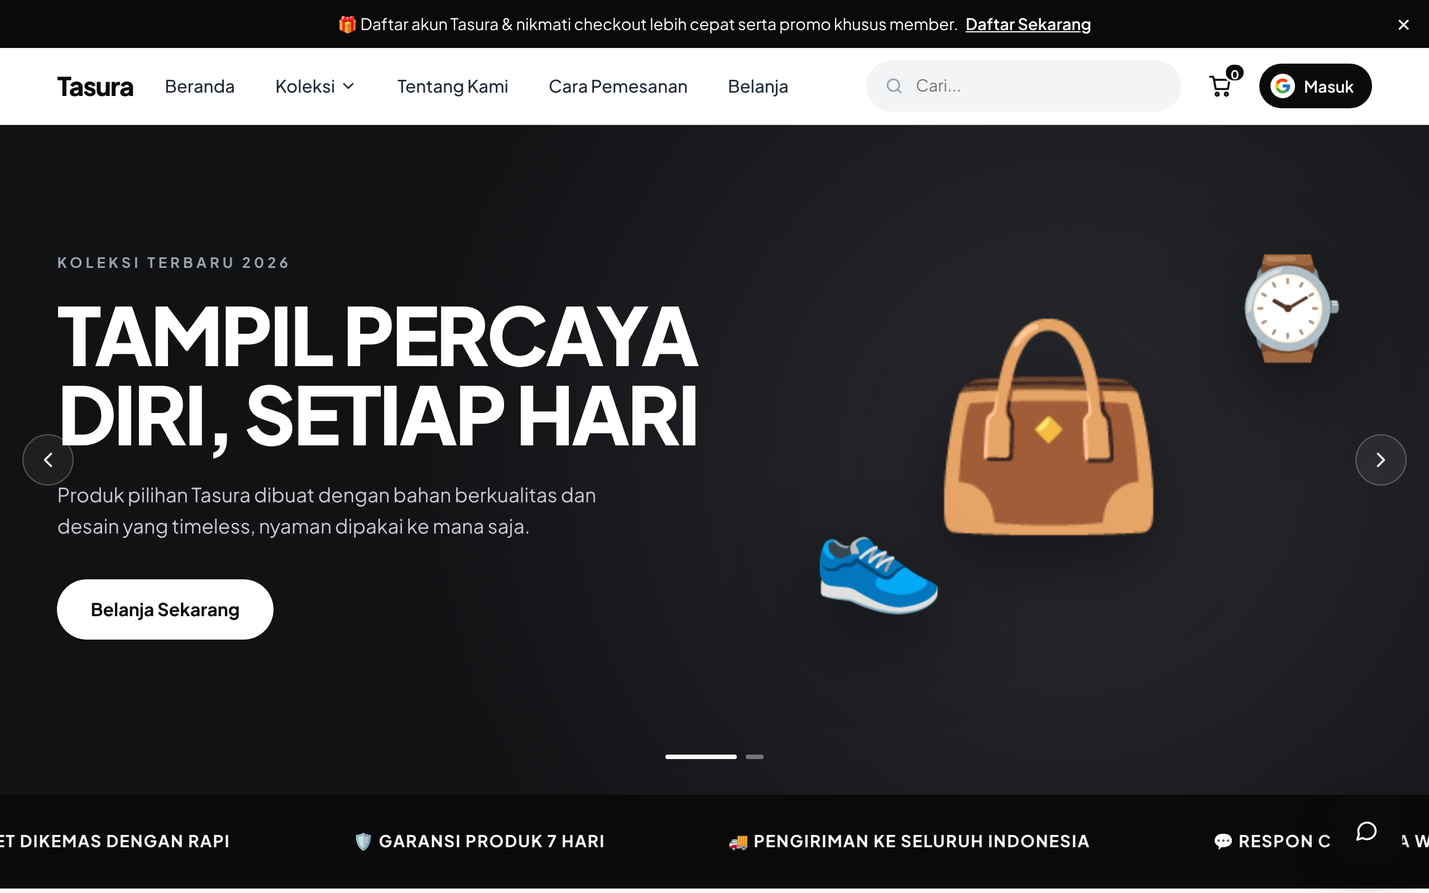
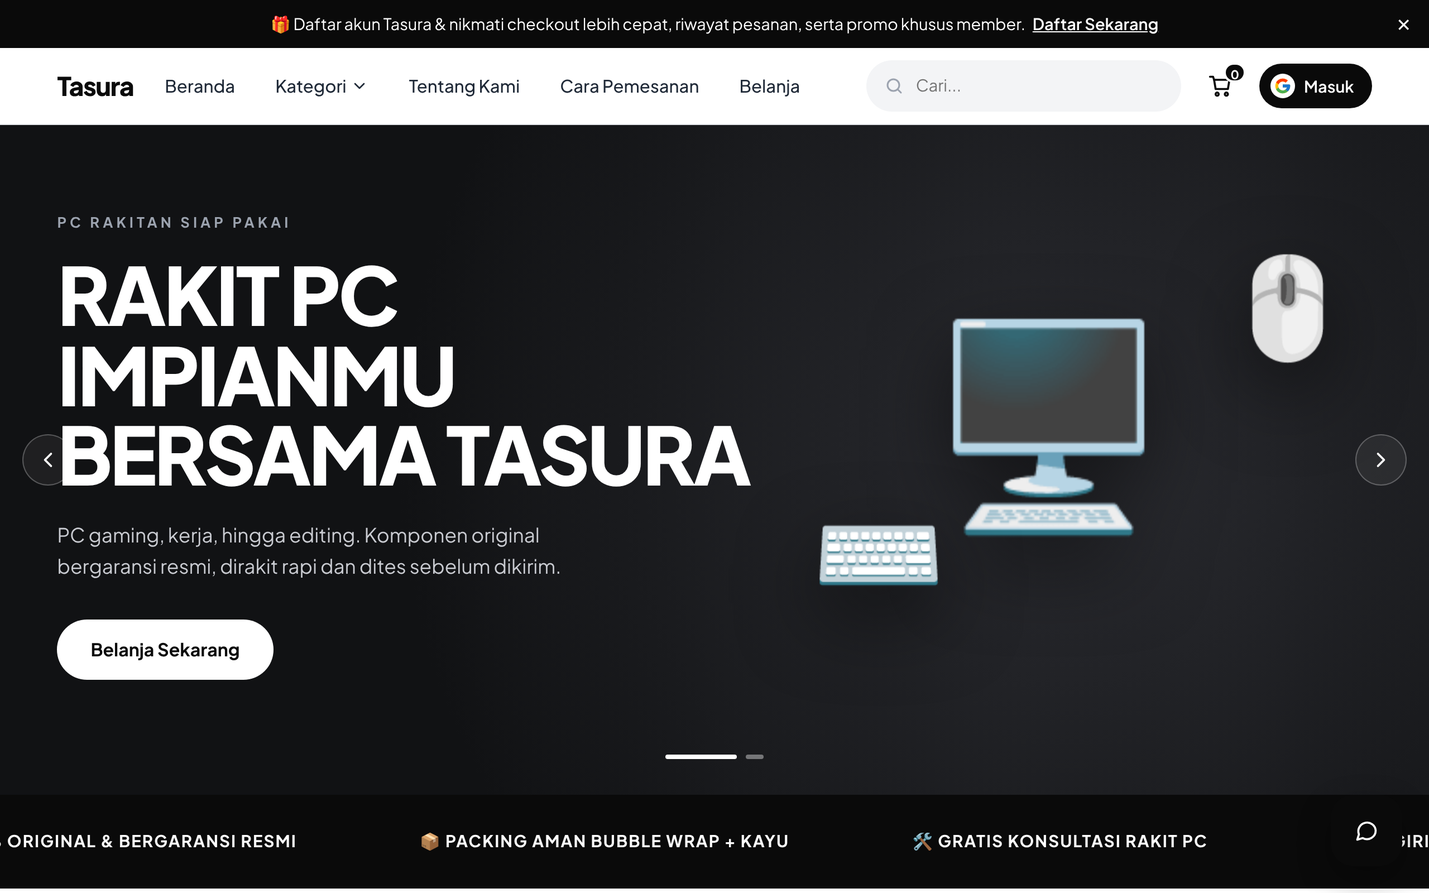
Turn store into PC and computer parts shop
Sample PC builds, monitors and components with spec lists in the
product detail, spec-aware search, and landing page copy for a PC store
(warranty, PC building consultation, testing and safe packing).

Claude-Session: https://claude.ai/code/session_01CW8Mdw83pMtiM6Mhh3g5pX

diff --git a/index.html b/index.html
@@ -3,8 +3,8 @@
 <head>
   <meta charset="UTF-8" />
   <meta name="viewport" content="width=device-width, initial-scale=1.0" />
-  <title>Tasura — Belanja Mudah, Kualitas Terbaik</title>
-  <meta name="description" content="Tasura - toko online terpercaya. Produk berkualitas, harga bersahabat, pesan langsung via WhatsApp." />
+  <title>Tasura — Toko PC, Monitor &amp; Komponen Komputer</title>
+  <meta name="description" content="Tasura - toko PC rakitan, monitor, dan komponen komputer original bergaransi resmi. Konsultasi rakit PC gratis, pesan via WhatsApp." />
   <link rel="preconnect" href="https://fonts.googleapis.com" />
   <link href="https://fonts.googleapis.com/css2?family=Plus+Jakarta+Sans:wght@400;500;600;700;800&display=swap" rel="stylesheet" />
   <meta name="theme-color" content="#0a0a0a" />
@@ -13,7 +13,7 @@
 <body>
   <!-- Announcement bar -->
   <div class="announce" id="announce">
-    <p>🎁 Daftar akun Tasura &amp; nikmati checkout lebih cepat serta promo khusus member. <a href="#" id="announceCta">Daftar Sekarang</a></p>
+    <p>🎁 Daftar akun Tasura &amp; nikmati checkout lebih cepat, riwayat pesanan, serta promo khusus member. <a href="#" id="announceCta">Daftar Sekarang</a></p>
     <button class="announce-close" id="announceClose" aria-label="Tutup">✕</button>
   </div>
 
@@ -24,7 +24,7 @@
       <nav class="nav" id="nav">
         <a href="#beranda">Beranda</a>
         <div class="dropdown">
-          <button type="button" class="dropdown-toggle">Koleksi <svg viewBox="0 0 24 24"><path d="m6 9 6 6 6-6"/></svg></button>
+          <button type="button" class="dropdown-toggle">Kategori <svg viewBox="0 0 24 24"><path d="m6 9 6 6 6-6"/></svg></button>
           <div class="dropdown-menu" id="navCategories"></div>
         </div>
         <a href="#tentang">Tentang Kami</a>
@@ -54,23 +54,23 @@
       <div class="slide active">
         <div class="container slide-inner">
           <div class="slide-text">
-            <span class="eyebrow">Koleksi Terbaru 2026</span>
-            <h1>Tampil Percaya Diri, Setiap Hari</h1>
-            <p>Produk pilihan Tasura dibuat dengan bahan berkualitas dan desain yang timeless, nyaman dipakai ke mana saja.</p>
+            <span class="eyebrow">PC Rakitan Siap Pakai</span>
+            <h1>Rakit PC Impianmu Bersama Tasura</h1>
+            <p>PC gaming, kerja, hingga editing. Komponen original bergaransi resmi, dirakit rapi dan dites sebelum dikirim.</p>
             <a href="#produk" class="btn btn-light">Belanja Sekarang</a>
           </div>
-          <div class="slide-visual"><span>👜</span><span>👟</span><span>⌚</span></div>
+          <div class="slide-visual"><span>🖥</span><span>⌨</span><span>🖱</span></div>
         </div>
       </div>
       <div class="slide">
         <div class="container slide-inner">
           <div class="slide-text">
             <span class="eyebrow">Promo Member Baru</span>
-            <h1>Hemat 10% di Pesanan Pertamamu</h1>
-            <p>Gunakan kode <b>TASURA10</b> saat checkout. Berlaku untuk semua produk, tanpa minimum belanja.</p>
+            <h1>Upgrade Setup, Hemat 10%</h1>
+            <p>Gunakan kode <b>TASURA10</b> saat checkout untuk monitor, VGA, dan semua komponen PC.</p>
             <a href="#produk" class="btn btn-light">Ambil Promo</a>
           </div>
-          <div class="slide-visual"><span>🧥</span><span>🎒</span><span>🕶</span></div>
+          <div class="slide-visual"><span>🎮</span><span>🎧</span><span>💽</span></div>
         </div>
       </div>
     </div>
@@ -82,10 +82,10 @@
   <!-- Marquee -->
   <div class="marquee">
     <div class="marquee-track" id="marquee">
-      <span>📦 Paket dikemas dengan rapi</span>
-      <span>🛡 Garansi produk 7 hari</span>
+      <span>✅ 100% original &amp; bergaransi resmi</span>
+      <span>📦 Packing aman bubble wrap + kayu</span>
+      <span>🛠 Gratis konsultasi rakit PC</span>
       <span>🚚 Pengiriman ke seluruh Indonesia</span>
-      <span>💬 Respon cepat via WhatsApp</span>
     </div>
   </div>
 
@@ -93,23 +93,23 @@
   <section class="section container" id="populer">
     <h2 class="big-title center">Paling Populer</h2>
     <div class="popular-grid" id="popularGrid"></div>
-    <div class="center"><a href="#produk" class="btn btn-outline-lg">Lihat Semua Koleksi</a></div>
+    <div class="center"><a href="#produk" class="btn btn-outline-lg">Lihat Semua Produk</a></div>
   </section>
 
   <!-- Quality / About -->
   <section class="section container quality" id="tentang">
     <div class="quality-text">
-      <h2 class="big-title">Kualitas di Atas Segalanya</h2>
-      <p>Di Tasura, setiap produk kami pilih dan cek satu per satu, mulai dari bahan, jahitan, sampai finishing. Kami ingin kamu mendapatkan barang yang awet, nyaman, dan tetap terlihat stylish.</p>
+      <h2 class="big-title">Original &amp; Bergaransi Resmi</h2>
+      <p>Semua produk Tasura berasal dari distributor resmi Indonesia. Setiap PC rakitan dites stress test dan benchmark sebelum dikirim, jadi kamu tinggal colok dan langsung pakai.</p>
       <div class="stats">
         <div><b>100%</b><span>Produk Original</span></div>
-        <div><b>5rb+</b><span>Pelanggan Bahagia</span></div>
+        <div><b>1rb+</b><span>PC Terakit</span></div>
         <div><b>4.9/5</b><span>Rating Pelanggan</span></div>
       </div>
     </div>
     <div class="quality-visual">
-      <span class="quality-emoji">🛍</span>
-      <div class="quality-badge"><b>Kualitas Premium</b><span>Terjamin</span></div>
+      <span class="quality-emoji">🛠</span>
+      <div class="quality-badge"><b>Garansi Resmi</b><span>Distributor Indonesia</span></div>
     </div>
   </section>
 
@@ -121,8 +121,8 @@
       <div class="steps">
         <div class="step">
           <div class="step-icon"><svg viewBox="0 0 24 24"><rect x="3" y="3" width="7" height="7" rx="1.5"/><rect x="14" y="3" width="7" height="7" rx="1.5"/><rect x="3" y="14" width="7" height="7" rx="1.5"/><rect x="14" y="14" width="7" height="7" rx="1.5"/></svg></div>
-          <h3>Pilih Produk Favoritmu</h3>
-          <p>Jelajahi koleksi Tasura dan temukan produk yang paling cocok dengan gayamu.</p>
+          <h3>Pilih PC atau Komponen</h3>
+          <p>Pilih PC rakitan siap pakai, atau komponen satuan untuk upgrade. Bingung? Konsultasi gratis via WhatsApp.</p>
         </div>
         <div class="step">
           <div class="step-icon"><svg viewBox="0 0 24 24"><rect x="3" y="3" width="18" height="18" rx="3"/><path d="M12 8v8M8 12h8"/></svg></div>
@@ -131,8 +131,8 @@
         </div>
         <div class="step">
           <div class="step-icon"><svg viewBox="0 0 24 24"><path d="M6 3h12v18l-6-4-6 4z"/></svg></div>
-          <h3>Konfirmasi &amp; Terima Paket</h3>
-          <p>Pesanan dikonfirmasi via WhatsApp dan dikirim cepat dengan packing aman.</p>
+          <h3>Dirakit, Dites &amp; Dikirim</h3>
+          <p>PC dirakit dan dites dulu, lalu dikirim dengan packing kayu supaya sampai dalam kondisi sempurna.</p>
         </div>
       </div>
     </div>
@@ -142,8 +142,8 @@
   <section class="section container" id="produk">
     <div class="section-head">
       <div>
-        <h2 class="big-title">Semua Koleksi</h2>
-        <p class="section-sub">Pilihan terbaik untuk kebutuhanmu</p>
+        <h2 class="big-title">Semua Produk</h2>
+        <p class="section-sub">PC rakitan, monitor, komponen, dan aksesoris gaming</p>
       </div>
       <select id="sortSelect" class="sort">
         <option value="default">Urutkan: Rekomendasi</option>
@@ -160,25 +160,25 @@
   <!-- Testimonials -->
   <section class="section container">
     <h2 class="big-title center">Pelanggan Kami yang Bahagia</h2>
-    <p class="section-sub center">Cerita dari mereka yang sudah merasakan kualitas produk Tasura.</p>
+    <p class="section-sub center">Cerita dari mereka yang sudah merakit dan upgrade PC di Tasura.</p>
     <div class="testis">
-      <div class="testi"><div class="testi-head"><span class="avatar">R</span><div><b>Rina</b><small>Jakarta</small></div></div><div class="stars">⭐⭐⭐⭐⭐</div><p>"Barangnya bagus banget, sesuai foto. Pengiriman juga cepat!"</p></div>
-      <div class="testi"><div class="testi-head"><span class="avatar">D</span><div><b>Dimas</b><small>Bandung</small></div></div><div class="stars">⭐⭐⭐⭐⭐</div><p>"Admin ramah dan fast respon. Pasti order lagi di Tasura."</p></div>
-      <div class="testi"><div class="testi-head"><span class="avatar">S</span><div><b>Sari</b><small>Surabaya</small></div></div><div class="stars">⭐⭐⭐⭐⭐</div><p>"Harga terjangkau, kualitas premium. Recommended!"</p></div>
+      <div class="testi"><div class="testi-head"><span class="avatar">R</span><div><b>Rina</b><small>Jakarta</small></div></div><div class="stars">⭐⭐⭐⭐⭐</div><p>"Beli PC rakitan buat editing, sampai rumah langsung nyala. Kabelnya rapi banget!"</p></div>
+      <div class="testi"><div class="testi-head"><span class="avatar">D</span><div><b>Dimas</b><small>Bandung</small></div></div><div class="stars">⭐⭐⭐⭐⭐</div><p>"Dibantu pilih VGA yang cocok sama PSU-ku. Admin paham banget soal komponen."</p></div>
+      <div class="testi"><div class="testi-head"><span class="avatar">S</span><div><b>Sari</b><small>Surabaya</small></div></div><div class="stars">⭐⭐⭐⭐⭐</div><p>"Monitor 165Hz-nya mulus, packing kayu aman. Harga juga bersaing!"</p></div>
     </div>
   </section>
 
   <!-- FAQ -->
   <section class="section container faq-wrap" id="faq">
     <h2 class="big-title center">Tanya Jawab</h2>
-    <p class="section-sub center">Jawaban seputar produk, pembayaran, dan pengiriman agar kamu makin yakin belanja.</p>
+    <p class="section-sub center">Jawaban seputar garansi, rakit PC, pembayaran, dan pengiriman agar kamu makin yakin belanja.</p>
     <div class="faq" id="faqList">
-      <details open><summary>Apakah bisa tukar atau retur barang?</summary><p>Bisa. Kami menerima retur maksimal 7 hari setelah barang diterima, selama produk belum dipakai, label masih terpasang, dan disertai video unboxing.</p></details>
-      <details><summary>Bagaimana cara memesan di Tasura?</summary><p>Pilih produk, masukkan ke keranjang, lalu klik Checkout dan isi data pengiriman. Pesananmu akan otomatis terkirim ke WhatsApp admin untuk dikonfirmasi.</p></details>
+      <details open><summary>Apakah semua produk original dan bergaransi?</summary><p>Ya. Semua produk 100% original dari distributor resmi Indonesia dan bergaransi resmi sesuai ketentuan masing-masing merek (umumnya 1–3 tahun untuk komponen, dan hingga 5 tahun untuk beberapa SSD/PSU).</p></details>
+      <details><summary>Bisa minta dirakitkan PC sesuai budget?</summary><p>Bisa banget. Chat kami via WhatsApp, sebutkan budget dan kebutuhanmu (gaming, editing, kantor). Kami bantu susun spesifikasi yang paling pas, gratis.</p></details>
+      <details><summary>Bagaimana saya tahu komponen yang saya pilih kompatibel?</summary><p>Cek bagian Spesifikasi di setiap produk (socket, tipe RAM, daya). Kalau ragu, kirim daftar komponenmu ke WhatsApp dan kami cek kompatibilitasnya sebelum kamu checkout.</p></details>
+      <details><summary>Apakah PC rakitan dites sebelum dikirim?</summary><p>Ya. Setiap PC rakitan diinstal driver, dites stress test dan benchmark, lalu dikirim dengan packing kayu agar aman selama perjalanan.</p></details>
       <details><summary>Metode pembayaran apa saja yang tersedia?</summary><p>Transfer bank, e-wallet (OVO, DANA, GoPay), dan COD (bayar di tempat) untuk area tertentu.</p></details>
-      <details><summary>Berapa lama waktu pengiriman?</summary><p>Pesanan diproses 1x24 jam di hari kerja. Estimasi sampai 1–3 hari untuk Pulau Jawa dan 3–7 hari untuk luar Jawa.</p></details>
-      <details><summary>Apakah produk Tasura original?</summary><p>Ya, semua produk yang kami jual 100% original dan sudah melalui pengecekan kualitas sebelum dikirim.</p></details>
-      <details><summary>Bagaimana jika pesanan saya bermasalah?</summary><p>Hubungi kami lewat WhatsApp dengan menyertakan nomor pesanan dan foto/video kendala. Tim kami akan membantu secepatnya.</p></details>
+      <details><summary>Bagaimana jika barang rusak atau tidak berfungsi saat diterima?</summary><p>Rekam video unboxing, lalu hubungi kami via WhatsApp maksimal 2×24 jam setelah barang diterima. Kami bantu tukar barang atau proses klaim garansinya.</p></details>
     </div>
   </section>
 
@@ -187,15 +187,15 @@
     <div class="container">
       <div class="cta">
         <div>
-          <h2>Siap Upgrade Gayamu?</h2>
-          <p>Dapatkan promo eksklusif dan update koleksi terbaru dari Tasura.</p>
+          <h2>Siap Upgrade Setup-mu?</h2>
+          <p>Konsultasi rakit PC gratis dan dapatkan promo eksklusif dari Tasura.</p>
         </div>
         <a href="#produk" class="btn btn-light">Belanja Sekarang</a>
       </div>
       <div class="footer-inner">
         <div>
           <a href="#beranda" class="logo">Tasura</a>
-          <p class="footer-desc">Toko online pilihan dengan produk berkualitas dan harga bersahabat. Belanja mudah, aman, dan cepat.</p>
+          <p class="footer-desc">Toko PC rakitan, monitor, dan komponen komputer original bergaransi resmi. Rakit, upgrade, dan belanja dengan tenang.</p>
           <div class="socials">
             <a href="#" aria-label="Instagram"><svg viewBox="0 0 24 24"><rect x="3" y="3" width="18" height="18" rx="5"/><circle cx="12" cy="12" r="4"/><circle cx="17.5" cy="6.5" r=".6"/></svg></a>
             <a href="#" aria-label="TikTok"><svg viewBox="0 0 24 24"><path d="M14 3v11.5a3.5 3.5 0 1 1-3.5-3.5"/><path d="M14 3c.5 2.5 2.5 4.5 5 5"/></svg></a>
@@ -204,7 +204,7 @@
         </div>
         <div>
           <h4>Belanja</h4>
-          <a href="#produk">Semua Koleksi</a>
+          <a href="#produk">Semua Produk</a>
           <a href="#populer">Paling Populer</a>
           <a href="#cara-pesan">Cara Pemesanan</a>
         </div>
@@ -212,7 +212,7 @@
           <h4>Bantuan</h4>
           <a href="#faq">FAQ</a>
           <a href="#faq">Info Pengiriman</a>
-          <a href="#faq">Kebijakan Retur</a>
+          <a href="#faq">Klaim Garansi</a>
         </div>
         <div>
           <h4>Kontak</h4>

diff --git a/products.js b/products.js
@@ -6,18 +6,52 @@ const STORE = {
 };
 
 // ====== DAFTAR PRODUK ======
-// gambar: isi dengan path foto (mis. "img/tas1.jpg"). Jika kosong, emoji yang ditampilkan.
+// gambar: isi dengan path foto (mis. "img/rtx4060.jpg"). Jika kosong, emoji yang ditampilkan.
+// spek: daftar spesifikasi singkat yang tampil di halaman detail produk.
 const PRODUCTS = [
-  { id: 1, nama: "Tote Bag Kanvas Premium", kategori: "Tas", harga: 129000, hargaCoret: 179000, rating: 4.9, terjual: 320, emoji: "👜", gambar: "", deskripsi: "Tote bag berbahan kanvas tebal, muat laptop 14 inci, cocok untuk kuliah & kerja." },
-  { id: 2, nama: "Sling Bag Kulit Sintetis", kategori: "Tas", harga: 159000, hargaCoret: 0, rating: 4.8, terjual: 210, emoji: "👝", gambar: "", deskripsi: "Sling bag elegan dengan tali adjustable dan banyak kompartemen." },
-  { id: 3, nama: "Kemeja Linen Oversize", kategori: "Pakaian", harga: 149000, hargaCoret: 199000, rating: 4.7, terjual: 540, emoji: "👕", gambar: "", deskripsi: "Kemeja linen adem, potongan oversize kekinian. Tersedia ukuran S–XL." },
-  { id: 4, nama: "Dress Midi Floral", kategori: "Pakaian", harga: 189000, hargaCoret: 0, rating: 4.9, terjual: 150, emoji: "👗", gambar: "", deskripsi: "Dress midi motif floral dengan bahan rayon lembut dan jatuh." },
-  { id: 5, nama: "Sneakers Casual Putih", kategori: "Sepatu", harga: 249000, hargaCoret: 329000, rating: 4.8, terjual: 410, emoji: "👟", gambar: "", deskripsi: "Sneakers putih serbaguna, sol empuk dan anti slip." },
-  { id: 6, nama: "Sandal Slide Comfort", kategori: "Sepatu", harga: 79000, hargaCoret: 0, rating: 4.6, terjual: 760, emoji: "🩴", gambar: "", deskripsi: "Sandal slide ringan dan nyaman dipakai seharian." },
-  { id: 7, nama: "Jam Tangan Minimalis", kategori: "Aksesoris", harga: 199000, hargaCoret: 259000, rating: 4.8, terjual: 190, emoji: "⌚", gambar: "", deskripsi: "Jam tangan desain minimalis, tali kulit, tahan percikan air." },
-  { id: 8, nama: "Kacamata Hitam UV400", kategori: "Aksesoris", harga: 99000, hargaCoret: 0, rating: 4.7, terjual: 280, emoji: "🕶", gambar: "", deskripsi: "Kacamata dengan perlindungan UV400, frame ringan dan kuat." },
-  { id: 9, nama: "Topi Baseball Basic", kategori: "Aksesoris", harga: 59000, hargaCoret: 75000, rating: 4.6, terjual: 630, emoji: "🧢", gambar: "", deskripsi: "Topi baseball bahan katun, strap belakang bisa diatur." },
-  { id: 10, nama: "Ransel Laptop Waterproof", kategori: "Tas", harga: 279000, hargaCoret: 349000, rating: 4.9, terjual: 260, emoji: "🎒", gambar: "", deskripsi: "Ransel waterproof dengan slot laptop 15.6 inci dan port USB." },
-  { id: 11, nama: "Hoodie Fleece Unisex", kategori: "Pakaian", harga: 219000, hargaCoret: 0, rating: 4.8, terjual: 380, emoji: "🧥", gambar: "", deskripsi: "Hoodie fleece tebal dan hangat, unisex, ukuran M–XXL." },
-  { id: 12, nama: "Dompet Kartu Slim", kategori: "Aksesoris", harga: 69000, hargaCoret: 89000, rating: 4.7, terjual: 450, emoji: "💳", gambar: "", deskripsi: "Dompet kartu tipis, muat 8 kartu + uang lipat." },
+  { id: 1, nama: "PC Gaming Ryzen 5 7500F + RTX 4060", kategori: "PC Rakitan", harga: 12499000, hargaCoret: 13299000, rating: 4.9, terjual: 86, emoji: "🖥", gambar: "",
+    deskripsi: "PC rakitan siap main game AAA di 1080p ultra dan 1440p high. Sudah dirakit rapi, cable management bersih, dan dites stress test sebelum dikirim.",
+    spek: ["Processor AMD Ryzen 5 7500F (6C/12T)", "VGA GeForce RTX 4060 8GB", "RAM 16GB DDR5 5600MHz", "SSD NVMe Gen4 1TB", "Motherboard B650M", "PSU 650W 80+ Bronze", "Casing mATX ARGB"] },
+  { id: 2, nama: "PC Office Intel Core i3-12100", kategori: "PC Rakitan", harga: 5299000, hargaCoret: 0, rating: 4.8, terjual: 54, emoji: "🖥", gambar: "",
+    deskripsi: "PC kantor dan sekolah yang cepat, hemat listrik, dan senyap. Cocok untuk Office, browsing, dan meeting online.",
+    spek: ["Processor Intel Core i3-12100", "Grafis Intel UHD 730", "RAM 8GB DDR4 3200MHz", "SSD NVMe 512GB", "Motherboard H610M", "PSU 450W"] },
+  { id: 3, nama: "Monitor 24\" IPS 165Hz FHD", kategori: "Monitor", harga: 1899000, hargaCoret: 2199000, rating: 4.9, terjual: 142, emoji: "📺", gambar: "",
+    deskripsi: "Monitor gaming 24 inci panel IPS dengan refresh rate 165Hz, warna akurat dan sudut pandang luas.",
+    spek: ["Ukuran 23.8 inci", "Resolusi 1920×1080", "Refresh rate 165Hz, 1ms", "Panel IPS, 99% sRGB", "Port HDMI 2.0, DisplayPort 1.4", "Adaptive Sync"] },
+  { id: 4, nama: "Monitor 27\" IPS 2K 180Hz", kategori: "Monitor", harga: 3499000, hargaCoret: 0, rating: 4.8, terjual: 63, emoji: "📺", gambar: "",
+    deskripsi: "Monitor 27 inci resolusi QHD untuk gaming kompetitif sekaligus kerja desain.",
+    spek: ["Ukuran 27 inci", "Resolusi 2560×1440", "Refresh rate 180Hz, 1ms", "Panel Fast IPS, HDR400", "Port 2× HDMI, 1× DisplayPort"] },
+  { id: 5, nama: "AMD Ryzen 5 7500F", kategori: "Processor", harga: 2299000, hargaCoret: 0, rating: 4.9, terjual: 97, emoji: "🧠", gambar: "",
+    deskripsi: "Processor 6 core arsitektur Zen 4 untuk platform AM5, pilihan favorit untuk PC gaming budget.",
+    spek: ["6 Core / 12 Thread", "Clock hingga 5.0GHz", "Socket AM5", "Mendukung DDR5", "TDP 65W", "Tanpa grafis terintegrasi"] },
+  { id: 6, nama: "Intel Core i5-12400F", kategori: "Processor", harga: 1799000, hargaCoret: 1999000, rating: 4.8, terjual: 88, emoji: "🧠", gambar: "",
+    deskripsi: "Processor 6 core yang efisien dan bertenaga untuk gaming dan produktivitas.",
+    spek: ["6 Core / 12 Thread", "Clock hingga 4.4GHz", "Socket LGA1700", "Mendukung DDR4 & DDR5", "TDP 65W", "Tanpa grafis terintegrasi"] },
+  { id: 7, nama: "VGA GeForce RTX 4060 8GB", kategori: "VGA", harga: 4799000, hargaCoret: 5199000, rating: 4.9, terjual: 121, emoji: "🎮", gambar: "",
+    deskripsi: "Kartu grafis hemat daya dengan DLSS 3 dan ray tracing, ideal untuk gaming 1080p.",
+    spek: ["Memori 8GB GDDR6", "Bus 128-bit", "DLSS 3 & Ray Tracing", "Konektor daya 1× 8-pin", "Rekomendasi PSU 550W", "Output 3× DP, 1× HDMI"] },
+  { id: 8, nama: "RAM DDR5 16GB (2×8GB) 5600MHz", kategori: "RAM", harga: 899000, hargaCoret: 0, rating: 4.8, terjual: 110, emoji: "💾", gambar: "",
+    deskripsi: "Kit dual channel DDR5 dengan heatspreader aluminium, plug and play dengan profil XMP/EXPO.",
+    spek: ["Kapasitas 16GB (2×8GB)", "Kecepatan 5600MHz", "Latency CL36", "Mendukung XMP 3.0 & EXPO", "Tegangan 1.25V"] },
+  { id: 9, nama: "SSD NVMe M.2 1TB Gen4", kategori: "Storage", harga: 1149000, hargaCoret: 1349000, rating: 4.9, terjual: 156, emoji: "💽", gambar: "",
+    deskripsi: "SSD super cepat untuk booting Windows dan loading game dalam hitungan detik.",
+    spek: ["Kapasitas 1TB", "Interface PCIe 4.0 x4 NVMe", "Baca hingga 5000MB/s", "Tulis hingga 4500MB/s", "Form factor M.2 2280"] },
+  { id: 10, nama: "Motherboard B650M WiFi", kategori: "Motherboard", harga: 2149000, hargaCoret: 0, rating: 4.7, terjual: 47, emoji: "🧩", gambar: "",
+    deskripsi: "Motherboard mATX untuk processor AMD Ryzen 7000 dengan WiFi bawaan dan dukungan DDR5.",
+    spek: ["Socket AM5", "Form factor Micro-ATX", "4× slot DDR5", "2× slot M.2 NVMe", "WiFi 6 & Bluetooth", "USB Type-C belakang"] },
+  { id: 11, nama: "PSU 650W 80+ Bronze", kategori: "PSU", harga: 749000, hargaCoret: 849000, rating: 4.8, terjual: 73, emoji: "🔌", gambar: "",
+    deskripsi: "Power supply stabil dengan sertifikasi 80+ Bronze, aman untuk PC gaming kelas menengah.",
+    spek: ["Daya 650W", "Sertifikasi 80+ Bronze", "Kipas 120mm senyap", "Proteksi OVP/OCP/SCP", "Konektor 2× PCIe 8-pin"] },
+  { id: 12, nama: "Casing mATX Tempered Glass ARGB", kategori: "Casing", harga: 549000, hargaCoret: 0, rating: 4.7, terjual: 65, emoji: "🗄", gambar: "",
+    deskripsi: "Casing dengan panel kaca tempered dan 4 kipas ARGB, airflow lega dan tampilan keren.",
+    spek: ["Form factor mATX / ITX", "Panel samping tempered glass", "Termasuk 4 kipas ARGB", "Panjang VGA maks. 320mm", "Tinggi cooler maks. 160mm"] },
+  { id: 13, nama: "Keyboard Mechanical TKL Hot-swap", kategori: "Aksesoris", harga: 449000, hargaCoret: 529000, rating: 4.8, terjual: 134, emoji: "⌨", gambar: "",
+    deskripsi: "Keyboard mekanikal tenkeyless dengan switch hot-swap dan lampu RGB.",
+    spek: ["Layout TKL 87 tombol", "Switch hot-swap", "Backlight RGB", "Koneksi kabel USB-C", "Keycaps double-shot"] },
+  { id: 14, nama: "Mouse Gaming Wireless 26K DPI", kategori: "Aksesoris", harga: 299000, hargaCoret: 0, rating: 4.7, terjual: 118, emoji: "🖱", gambar: "",
+    deskripsi: "Mouse gaming ringan dengan sensor presisi tinggi dan koneksi wireless latensi rendah.",
+    spek: ["Sensor hingga 26.000 DPI", "Berat 63 gram", "Wireless 2.4GHz & kabel", "Baterai hingga 70 jam"] },
+  { id: 15, nama: "Headset Gaming 7.1 Surround", kategori: "Aksesoris", harga: 379000, hargaCoret: 0, rating: 4.6, terjual: 82, emoji: "🎧", gambar: "",
+    deskripsi: "Headset nyaman dengan suara surround 7.1 virtual dan mikrofon jernih untuk mabar.",
+    spek: ["Driver 50mm", "Virtual surround 7.1", "Mikrofon noise-cancelling", "Koneksi USB & jack 3.5mm"] },
 ];

diff --git a/app.js b/app.js
@@ -15,7 +15,7 @@ function renderCategories() {
 function renderProducts() {
   let list = PRODUCTS.filter(p =>
     (activeCat === "Semua" || p.kategori === activeCat) &&
-    p.nama.toLowerCase().includes(query.toLowerCase()));
+    [p.nama, p.kategori, ...(p.spek || [])].join(" ").toLowerCase().includes(query.toLowerCase()));
   if (sort === "low") list.sort((a, b) => a.harga - b.harga);
   if (sort === "high") list.sort((a, b) => b.harga - a.harga);
   if (sort === "rating") list.sort((a, b) => b.rating - a.rating);
@@ -44,6 +44,7 @@ function showDetail(id) {
       <span class="meta">⭐ ${p.rating} • ${p.terjual} terjual</span>
       <div class="price"><b style="font-size:1.5rem">${rupiah(p.harga)}</b>${p.hargaCoret ? `<s>${rupiah(p.hargaCoret)}</s>` : ""}</div>
       <p>${p.deskripsi}</p>
+      ${p.spek?.length ? `<div class="spec"><b>Spesifikasi</b><ul>${p.spek.map(x => `<li>${x}</li>`).join("")}</ul></div>` : ""}
       <button class="btn btn-primary" data-add="${p.id}">+ Tambah ke Keranjang</button>
       <a class="btn btn-wa" target="_blank" href="https://wa.me/${STORE.whatsapp}?text=${encodeURIComponent(`Halo ${STORE.nama}, saya tertarik dengan produk *${p.nama}* (${rupiah(p.harga)}). Apakah masih tersedia?`)}">Tanya via WhatsApp</a>
     </div>`;
@@ -172,7 +173,7 @@ function renderPopular() {
 // ====== Menu Koleksi (kategori) ======
 function renderNavCategories() {
   const cats = ["Semua", ...new Set(PRODUCTS.map(p => p.kategori))];
-  $("#navCategories").innerHTML = cats.map(c => `<a data-navcat="${c}">${c === "Semua" ? "Semua Koleksi" : c}</a>`).join("");
+  $("#navCategories").innerHTML = cats.map(c => `<a data-navcat="${c}">${c === "Semua" ? "Semua Produk" : c}</a>`).join("");
 }
 document.addEventListener("click", e => {
   const a = e.target.closest("[data-navcat]");

diff --git a/style.css b/style.css
@@ -224,6 +224,10 @@ svg{width:22px;height:22px;fill:none;stroke:currentColor;stroke-width:2;stroke-l
 .detail-body{padding:28px;display:flex;flex-direction:column;gap:10px;position:relative}
 .detail-body .close{position:absolute;top:14px;right:14px}
 .detail-body p{color:var(--muted);font-size:.95rem}
+.spec{background:var(--gray-bg);border:1px solid var(--line);border-radius:12px;padding:12px 14px;font-size:.88rem}
+.spec ul{margin:6px 0 0 18px;display:grid;gap:3px;color:#374151}
+.detail{max-height:92vh}
+.detail-body{overflow:auto}
 .toast{position:fixed;bottom:24px;left:50%;transform:translate(-50%,120px);background:var(--black);color:#fff;padding:12px 22px;border-radius:99px;z-index:200;transition:.3s;font-size:.9rem}
 .toast.show{transform:translate(-50%,0)}
 
